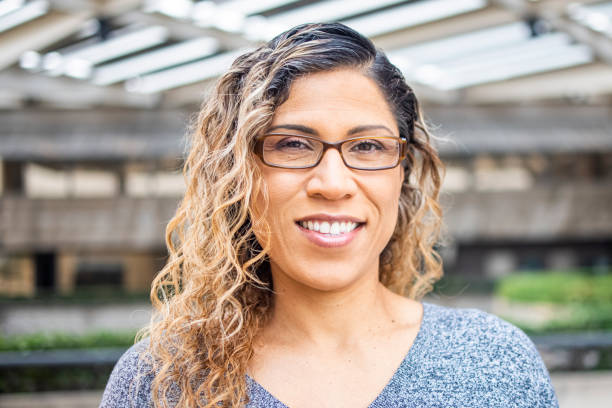
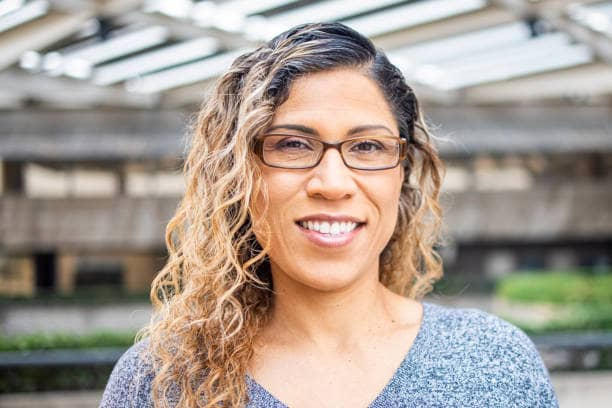
compressed pictures for quicker load and added base to readme

diff --git a/README.md b/README.md
@@ -1,9 +1,144 @@
-https://shemmyyo.github.io/mr-and-mrs-cleaners/
+# __Portfolio Project 1 - HTML/CSS Essentials__
 
-![image](https://user-images.githubusercontent.com/111382268/190194986-31a75709-03d4-4ffc-946d-ca646609f05e.png)
+Mr&Mrs Cleaners is a variation on live [business webpage](https://mrsandmrcleaner.ie/) of my friends and is intended to showcase new web-technologies (like HTML and CSS) and new, atractive solution to presenting their business content to potential new customers
+
+
+![Multi Device Demo](assets/other/am-i-responsive-img.png)
+
+
+## __Live Site__
+[Mr&Mrs Cleaners](https://shemmyyo.github.io/mr-and-mrs-cleaners/)
+
+## Repository 
+[https://github.com/ShemmyYo/mr-and-mrs-cleaners](https://github.com/ShemmyYo/mr-and-mrs-cleaners)
+
+## __Tech Stack__
+
+<img height="42" src="/workspace/mr-and-mrs-cleaners/assets/other/html.png"> **HTML5**
+<img height="50" src="/workspace/mr-and-mrs-cleaners/assets/other/css-img.png"> **CSS3**
+<img height="50" src="/workspace/mr-and-mrs-cleaners/assets/other/gitpod.png"> **Gitpod**
+<img height="45" src="/workspace/mr-and-mrs-cleaners/assets/other/github.png"> **Git**
+
+
+***
+
+## __Contents__
+
+- [Key Project Goals](#key-project-goals)
+- [Brief](#brief)
+- [Target Audience](#target-audience)
+- [UX User Experience](#ux-user-experience)
+    - [User Stories](#user-stories)
+    - [Initial Concept](#initial-concept)
+    - [Wireframes](#wireframes)
+    - [Site Structure](#site-structure)
+    - [Colour Scheme](#colour-scheme)
+    - [Typography](#typography)
+    - [Imagery](#imagery)
+- [Features](#features)
+    - [Existing Features](#existing-features)
+        - [Home](#home)
+        - [Dogs](#dogs)
+        - [About](#about)
+        - [Learn](#learn)
+        - [Contact](#contact)
+        - [Form Confirmation](#form-confirmation)
+    - [Future Features](#future-features)
+- [Technologies Used](#technologies-used)
+- [Testing](#testing)
+- [Deployment](#deployment)
+    - [To Fork the Repository](#to-fork-the-repository)
+    - [To create a Local Clone](#to-create-a-local-clone)
+- [Credits](#credits)
+    - [Content](#content)
+    - [Media](#media) 
+    - [Code](#code)
+- [Acknowledgements](#acknowledgements)
+
+***
+
+## __Key Project Goals__
+This project has two main objectives: 
+- To showcase web-technologies like HTML and CSS in compelling static front end application to present content to potential new customers
+- To demonstrate my competency as a developer using HMTL & CSS languages
+
+## __Brief__
+
+TBC
+
+## __Target Audience__
+
+***
+
+## __UX User Experience__
+
+### __User Stories__ 
+
+### __Initial Concept__
+
+### __Wireframes__
+
+#### __Phone__
+
+Home Page:
+
+![Home Page Wireframe]()
+
+Services Page:
+
+![Services Page Wireframe]()
+
+Gallery Page:
+
+![Gallery Page Wireframe]()
+
+Contact Page:
+
+![Contact Page Wireframe]()
+
+Contact Page:
+
+![Form Submittion - Thank You Page Wireframe]()
+
+#### __Tablet__ 
+
+![Tablet Wireframes]()
+
+#### __Desktop__ 
+
+![Desktop Wireframes]()
+
+***
+
+### __Site Structure__
+
+Mr&Mrs Cleaners is a 5 page website. 
+The home page is the default loading page, 3 pages are accessible from the navigation menu at all times and 1 page is only displayed on Contact Page Form submittion.  
+
+### __Colour Scheme__
+I used <img height="12" src="/workspace/mr-and-mrs-cleaners/assets/other/colormind-logo.png"> [Colormind](http://colormind.io/bootstrap/) to find a perfect colour scheme that would tie-in with the nature of the business, be easily readable and visually appealing to users.
+
+![image](assets/other/color-scheme.png)
+
+### __Typography__
+
+The three fonts used were imported into the css from [google fonts](https://fonts.google.com/)
+I used 'Dancing Script' for logo, 'Kanit' for all headings & 'Playfair Display' for any other text
+![image](assets/other/google-font-dancing-script.png)
+![image](assets/other/google-font-kanit.png)
+![image](assets/other/google-font-playfair-display.png)
+
+Sans-serif is the nominated fallback font
+
+
+
+
+tbc
 
 ![image](https://user-images.githubusercontent.com/111382268/190888477-2d05de20-82c9-4235-b41b-6e40027c3a6c.png)
 
 ![image](https://user-images.githubusercontent.com/111382268/190888888-3414d3e0-f842-4c95-9d7b-8d82b4b86115.png)
 
 ![image](https://user-images.githubusercontent.com/111382268/191821938-65657aa6-a461-4970-bb05-a7da519d5483.png)
+
+https://stock.adobe.com/
